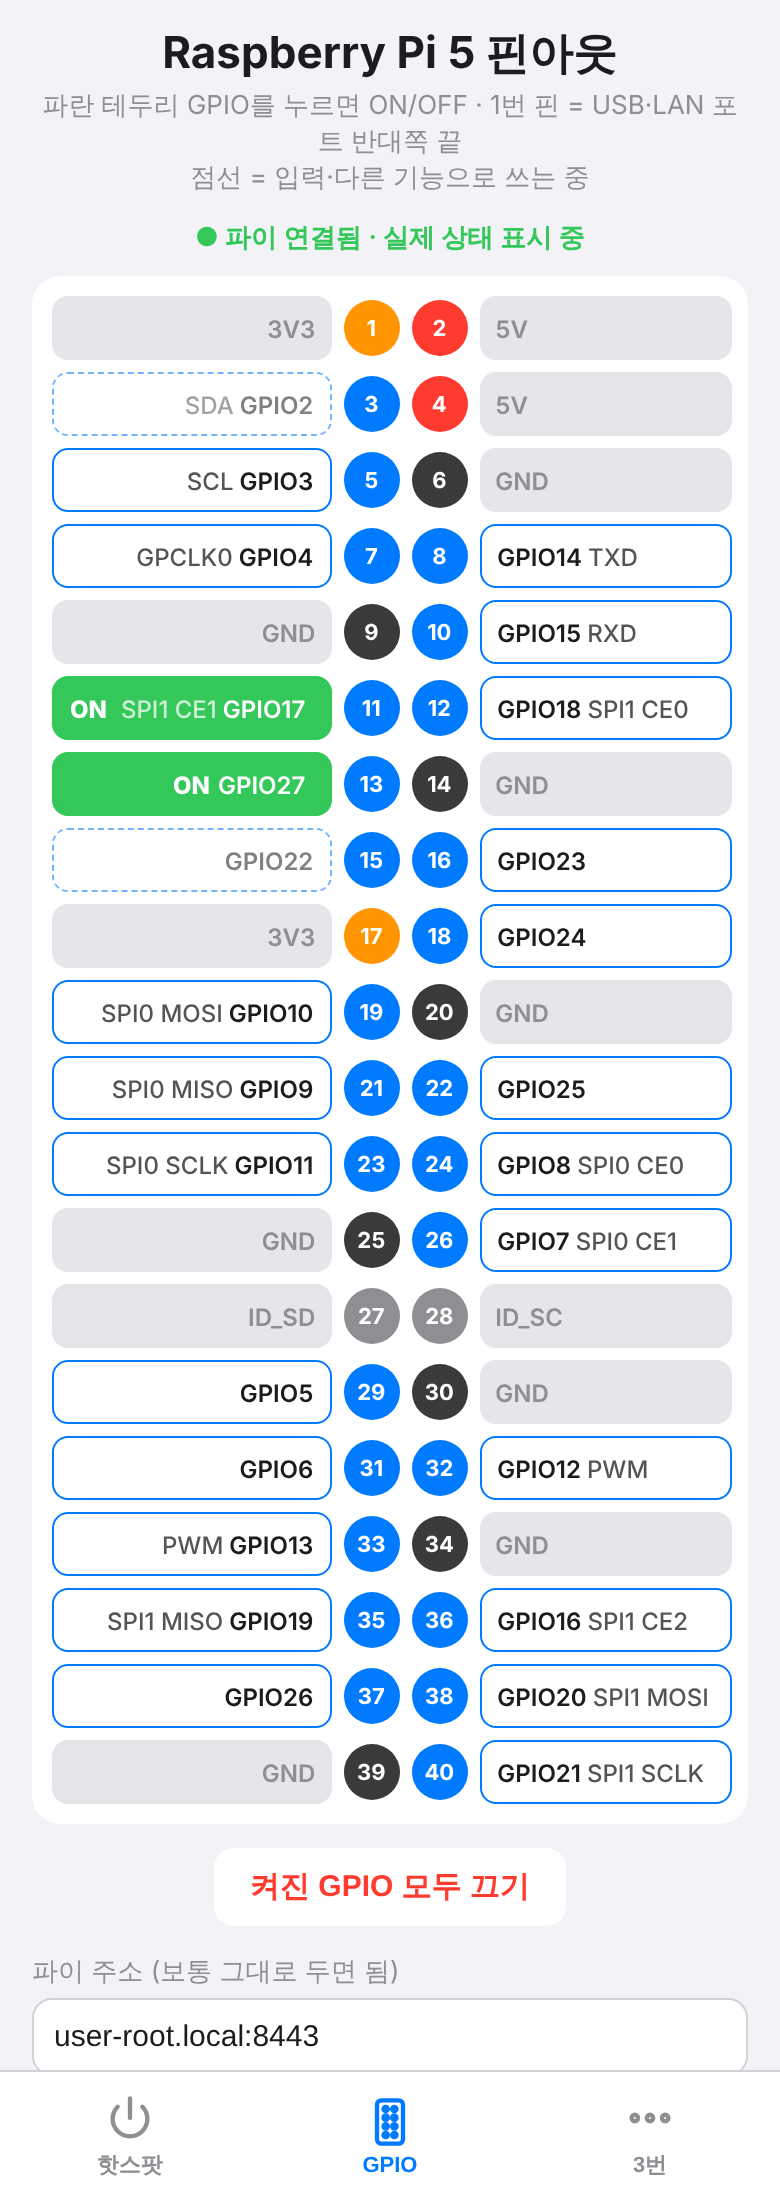
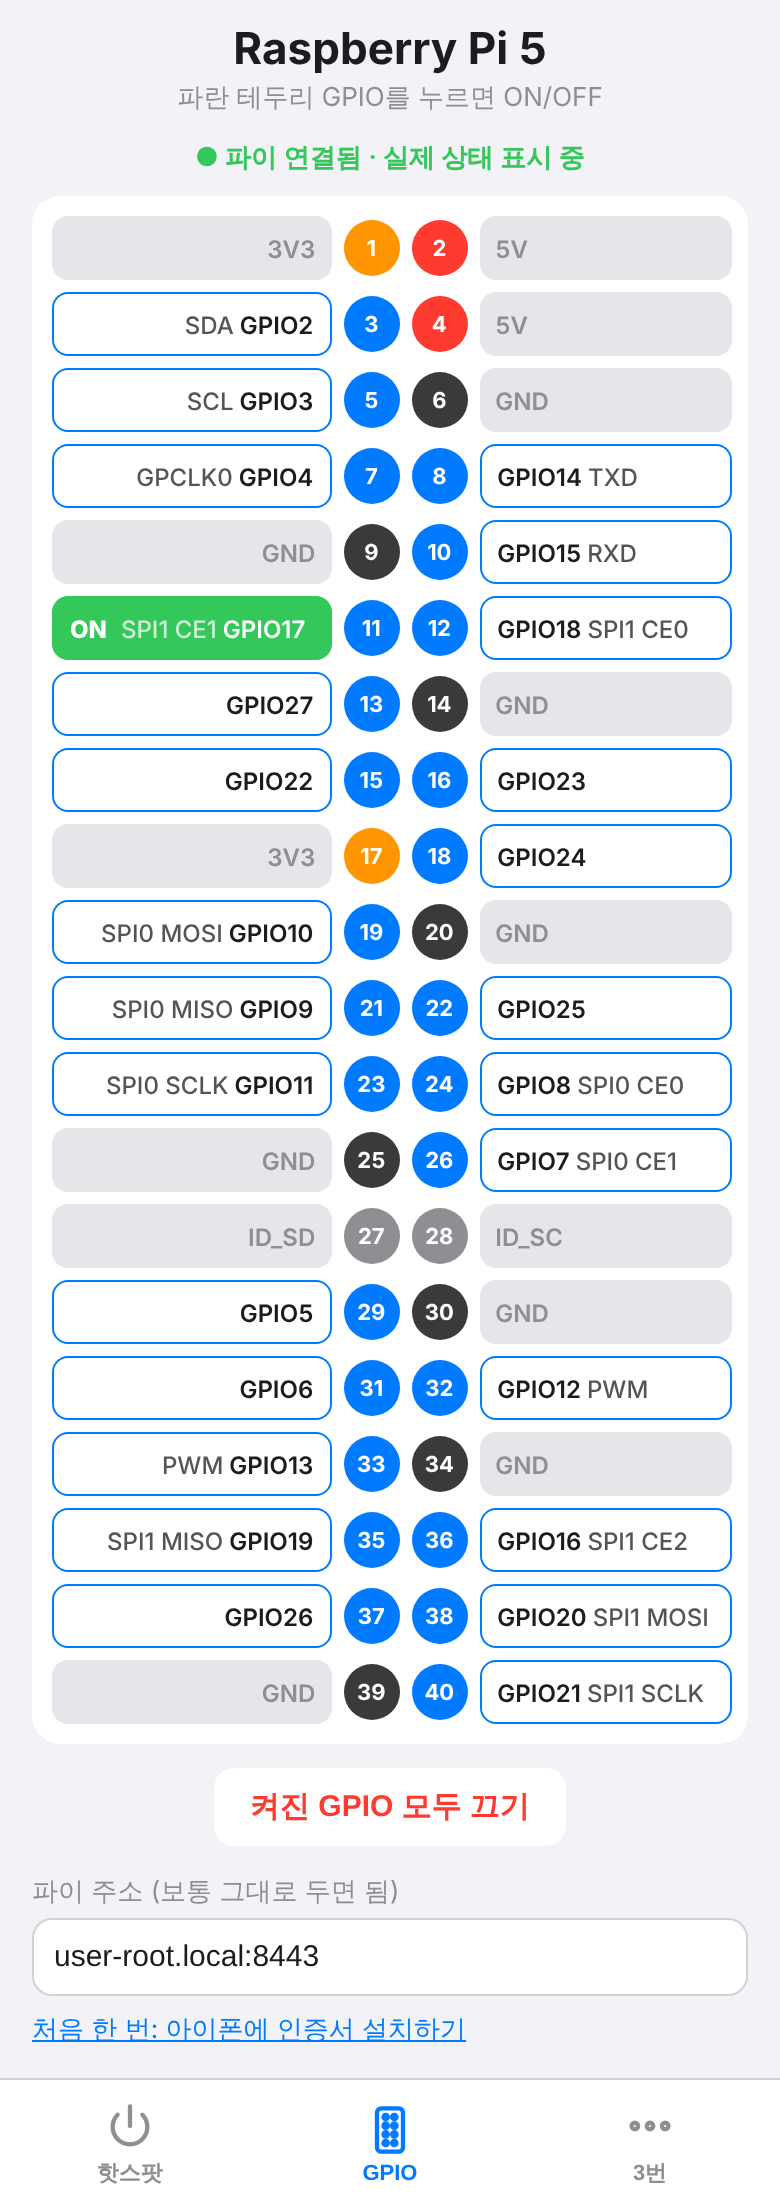
GPIO 탭: 제목 정리, 1번 핀 안내 제거, 점선 설명은 점선 핀이 있을 때만 표시
Claude-Session: https://claude.ai/code/session_019ABEp24B3Se2KfcknBZMmt

diff --git a/iphone-app/index.html b/iphone-app/index.html
@@ -94,8 +94,8 @@
 
 <!-- 2번 탭: 라즈베리 파이 5 핀아웃 + GPIO ON/OFF -->
 <section class="page" id="p2">
-  <h2>Raspberry Pi 5 핀아웃</h2>
-  <p class="hint">파란 테두리 GPIO를 누르면 ON/OFF · 1번 핀 = USB·LAN 포트 반대쪽 끝<br>점선 = 입력·다른 기능으로 쓰는 중</p>
+  <h2>Raspberry Pi 5</h2>
+  <p class="hint">파란 테두리 GPIO를 누르면 ON/OFF<span id="busyHint" hidden><br>점선 = 입력·다른 기능으로 쓰는 중</span></p>
   <p id="conn">연결 확인 중…</p>
   <div id="header"></div>
   <button id="alloff">켜진 GPIO 모두 끄기</button>
@@ -240,6 +240,7 @@ function renderGpio() {
     el.classList.toggle('on', !!st.on);
     el.classList.toggle('busy', st.mode === 'ip' || /^a\d/.test(st.mode || ''));   // 입력·다른 기능(I2C·SPI 등)
   });
+  document.getElementById('busyHint').hidden = !header.querySelector('.lab.busy');   // 점선 핀이 있을 때만 설명 표시
 }
 
 function setConn(ok, text) { conn.className = ok ? 'ok' : 'bad'; conn.textContent = text; }

diff --git a/iphone-app/README.md b/iphone-app/README.md
@@ -164,7 +164,7 @@ journalctl -u hotspot-priority -n 20
   - 핀 하나에 기능이 여러 개라 문서마다 다르게 적혀 있을 수 있음. 예: GPIO18 = `SPI1 CE0` / `PCM CLK`(파이 5에서는 I2S) / `PWM` 모두 맞음. 웹앱은 SPI 기준으로 통일
   - `SDA`·`SCL` = I2C, `TXD`·`RXD` = 시리얼(UART), `SPI0`·`SPI1` = SPI 장치 연결, `PWM` = 밝기·속도 조절용 신호, `GPCLK0` = 클럭 출력
 - "켜진 GPIO 모두 끄기": 이 웹앱으로 켠 핀을 전부 OFF
-- 점선 테두리 = 그 핀을 입력이나 다른 기능(I2C·SPI 등)으로 쓰는 중
+- 점선 테두리 = 그 핀을 입력이나 다른 기능(I2C·SPI 등)으로 쓰는 중. 그런 핀이 있을 때만 점선과 설명이 나타남 (아무것도 연결·설정 안 했으면 안 보임)
 
 ### 구조
 ```
